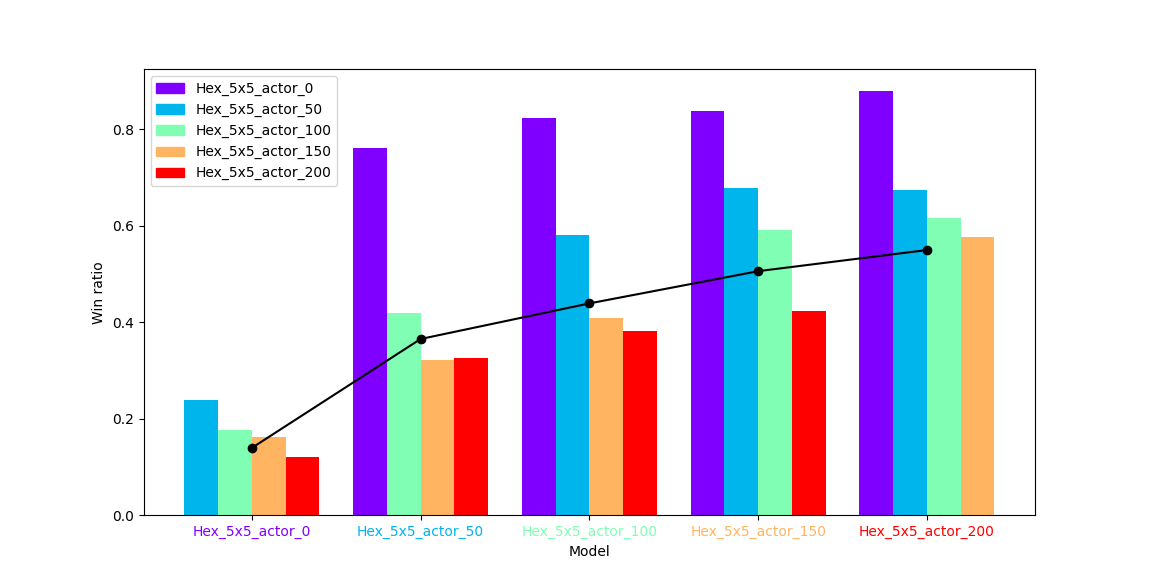
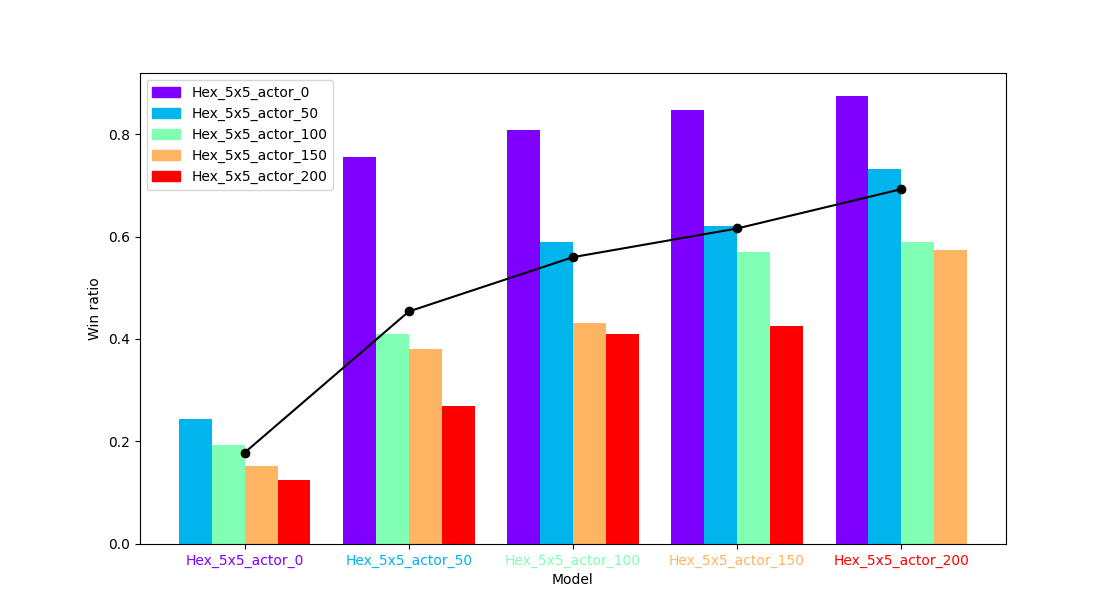
Plot mean correctly

diff --git a/topp/visualize.py b/topp/visualize.py
@@ -22,7 +22,7 @@ def plot_win_ratios(model_names: list[str], win_ratios: np.ndarray, cmap: str = 
     plt.legend(handles=legend_patches)
 
     # Plot mean win percentage
-    ax.plot(range(n_models), win_ratios.mean(axis=1), color='black', marker='o', zorder=2)
+    ax.plot(range(n_models), win_ratios.sum(axis=1) / (n_models - 1), color='black', marker='o', zorder=2)
 
     # Plot bars
     for i, (win, model_name) in enumerate(zip(win_ratios, model_names)):

diff --git a/run_topp.py b/run_topp.py
@@ -29,5 +29,5 @@ wins = topp.round_robin(**round_robing_kwargs)
 # Plot win ratios per model
 win_ratios = wins / round_robing_kwargs['n_games']
 print('Total wins: ', wins.sum(axis=1))
-print('Win ratios: ', win_ratios.mean(axis=1))
+print('Win ratios: ', win_ratios.sum(axis=1) / (len(model_names) - 1))
 plot_win_ratios(model_names, win_ratios)
